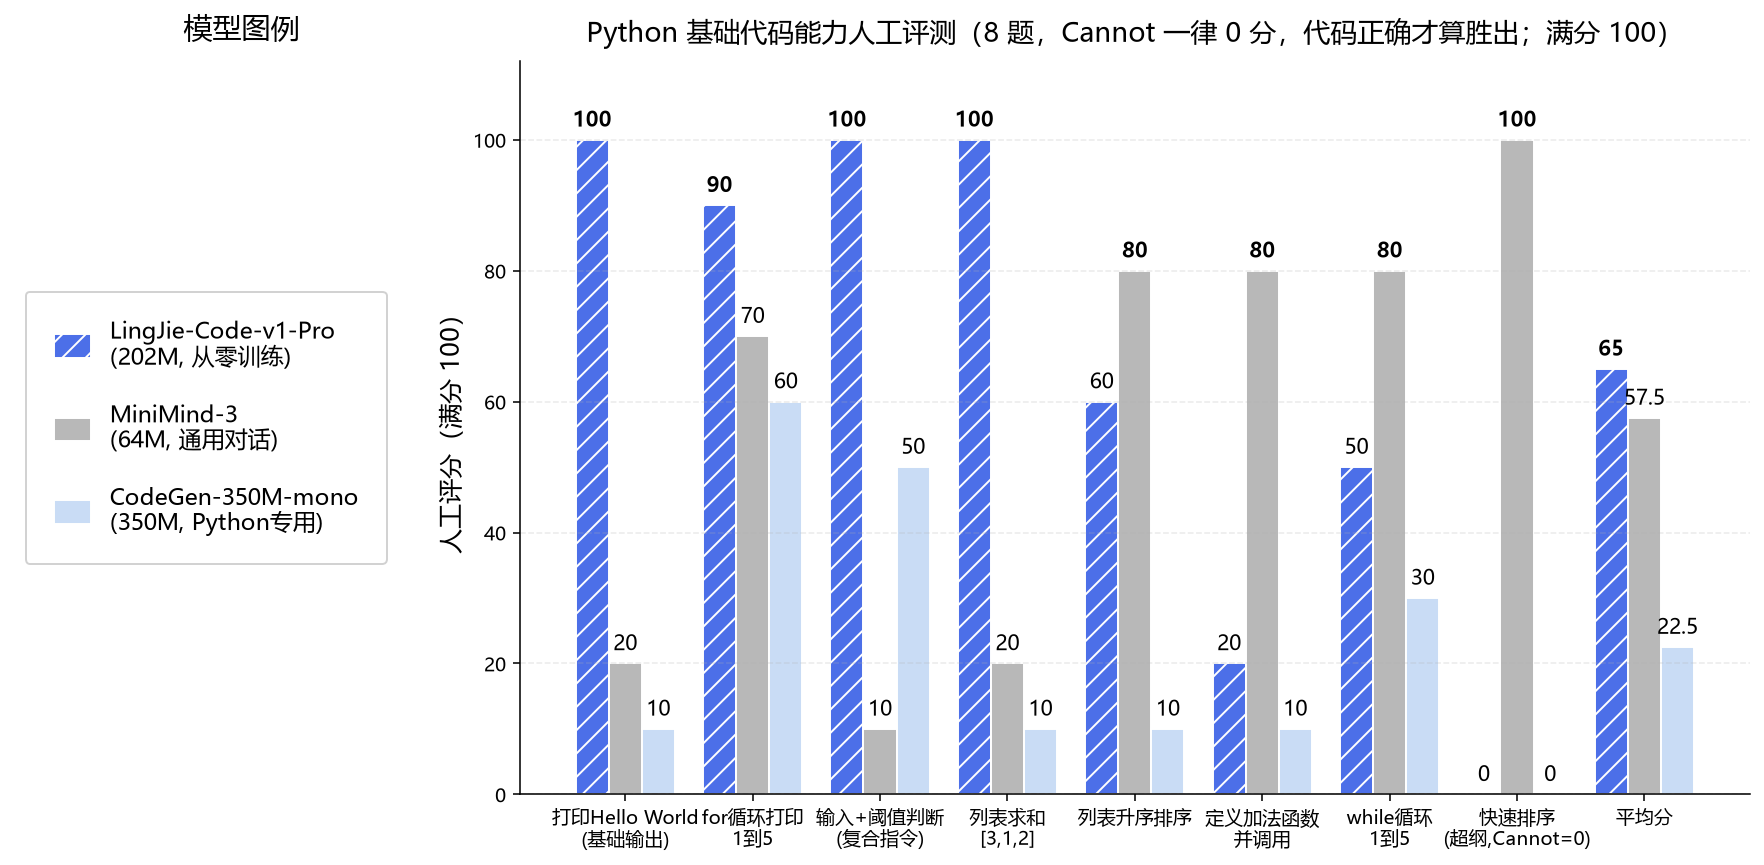
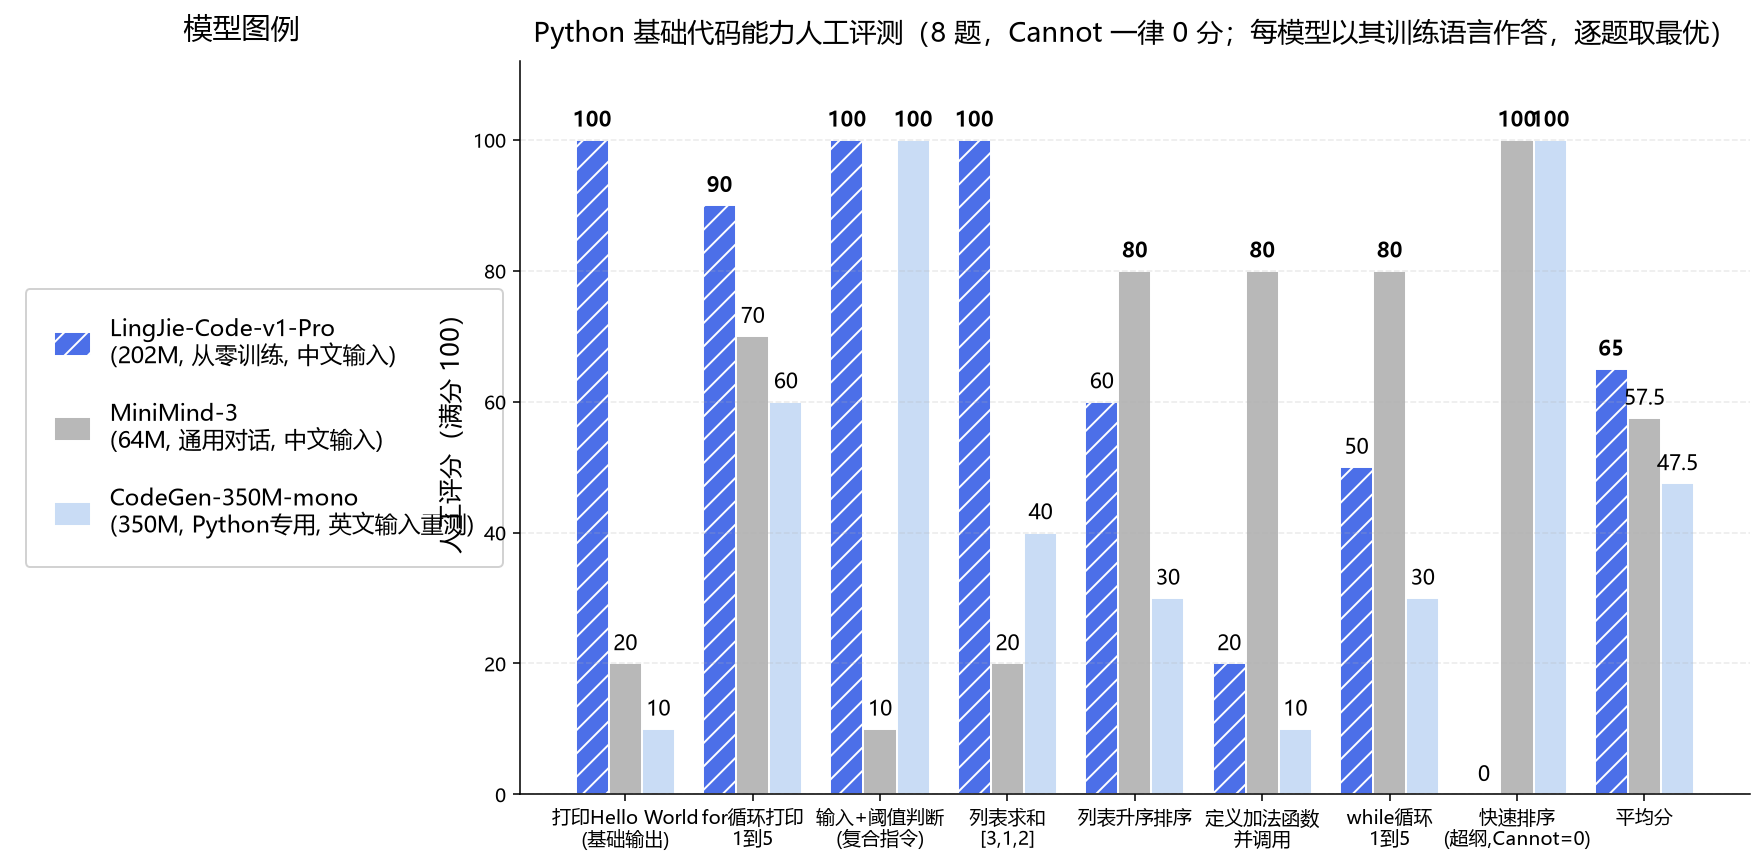
eval: language-fair protocol - CodeGen re-tested with English prompts, scores updated (22.5 -> 47.5)

diff --git a/tests/test_codegen_english_local.py b/tests/test_codegen_english_local.py
@@ -1,0 +1,56 @@
+# -*- coding: utf-8 -*-
+"""实验：CodeGen-350M-mono 英文 prompt vs 中文 prompt（本地 CPU 版）"""
+import os
+
+os.environ.setdefault("HF_ENDPOINT", "https://hf-mirror.com")
+import torch
+from transformers import AutoModelForCausalLM, AutoTokenizer
+
+cg_name = "Salesforce/codegen-350M-mono"
+tok = AutoTokenizer.from_pretrained(cg_name, trust_remote_code=True)
+model = (AutoModelForCausalLM.from_pretrained(cg_name, trust_remote_code=True)
+         .to("cpu").eval())
+if tok.pad_token_id is None:
+    tok.pad_token = tok.eos_token
+
+# ---- 1) 分词器碎片分析 ----
+zh = "帮我算一下列表 [3, 1, 2] 的总和并打印"
+zh_ids = tok(zh)["input_ids"]
+print("=" * 60)
+print("中文 prompt 分词 (%d chars -> %d tokens):" % (len(zh), len(zh_ids)))
+print("tokens:", [tok.decode([i]) for i in zh_ids][:25])
+en = "compute the sum of the list [3, 1, 2] and print it"
+en_ids = tok(en)["input_ids"]
+print("英文 prompt 分词 (%d chars -> %d tokens):" % (len(en), len(en_ids)))
+print("tokens:", [tok.decode([i]) for i in en_ids][:20])
+
+# ---- 2) 同题英文对照 ----
+PAIRS = [
+    ("Q1", "打印Hello World", "print Hello World"),
+    ("Q2", "用for循环从1到5，每次打印i",
+     "use a for loop to print the numbers 1 to 5"),
+    ("Q3", "获取用户输入，如果小于18就输出no，否则输出yes",
+     "read an integer from input, print 'no' if it is less than 18 else print 'yes'"),
+    ("Q4", "帮我算一下列表 [3, 1, 2] 的总和并打印",
+     "compute the sum of the list [3, 1, 2] and print it"),
+    ("Q5", "把列表 [3, 1, 2] 从小到大排序并打印",
+     "sort the list [3, 1, 2] in ascending order and print it"),
+    ("Q6", "定义一个加法函数，计算 2 加 3，并打印结果",
+     "define a function add(a, b) that returns a + b, then print add(2, 3)"),
+    ("Q7", "用while循环打印1到5", "print the numbers 1 to 5 using a while loop"),
+    ("Q8", "帮我用Python写一个快速排序算法",
+     "implement quicksort in Python"),
+]
+
+print("\n" + "=" * 60)
+for key, zh_q, en_q in PAIRS:
+    print("\n--- %s ---" % key, flush=True)
+    for lang, q in [("ZH", zh_q), ("EN", en_q)]:
+        ids = tok(q + "\n", return_tensors="pt")
+        with torch.no_grad():
+            gen = model.generate(**ids, max_new_tokens=80, do_sample=False,
+                                 pad_token_id=tok.eos_token_id)
+        out = tok.decode(gen[0, ids["input_ids"].shape[1]:],
+                         skip_special_tokens=True)
+        print("[%s] %s" % (lang, q))
+        print("    ->", repr(out.strip()[:220]), flush=True)
